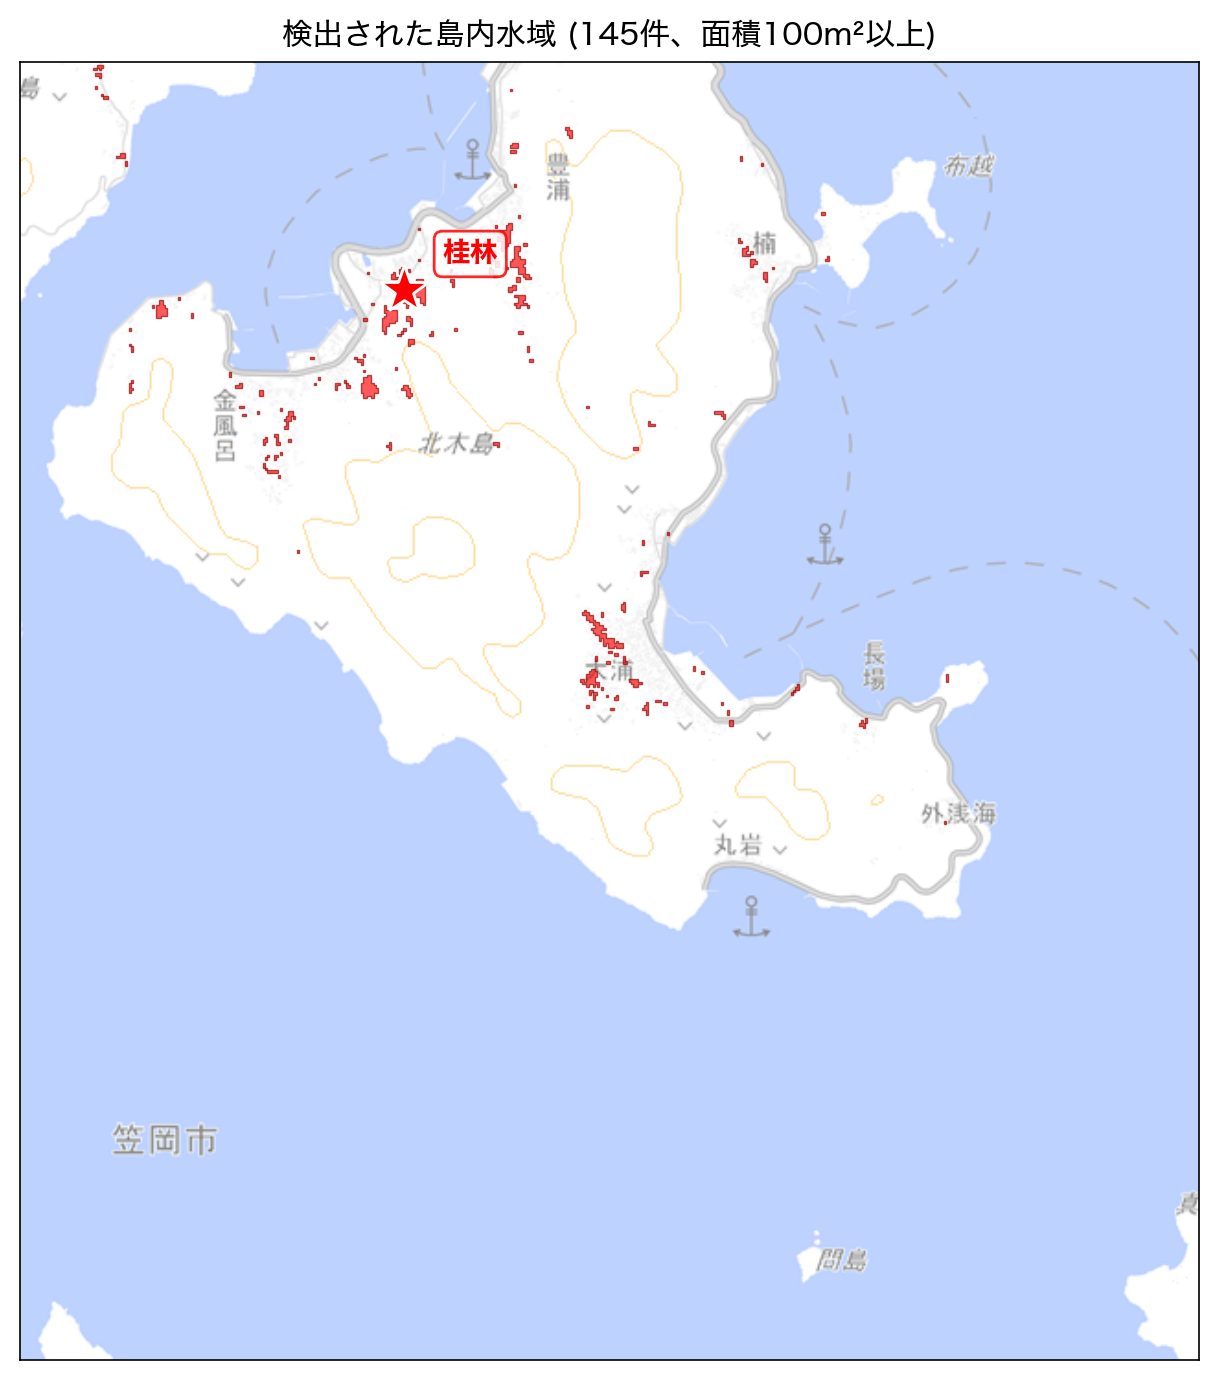
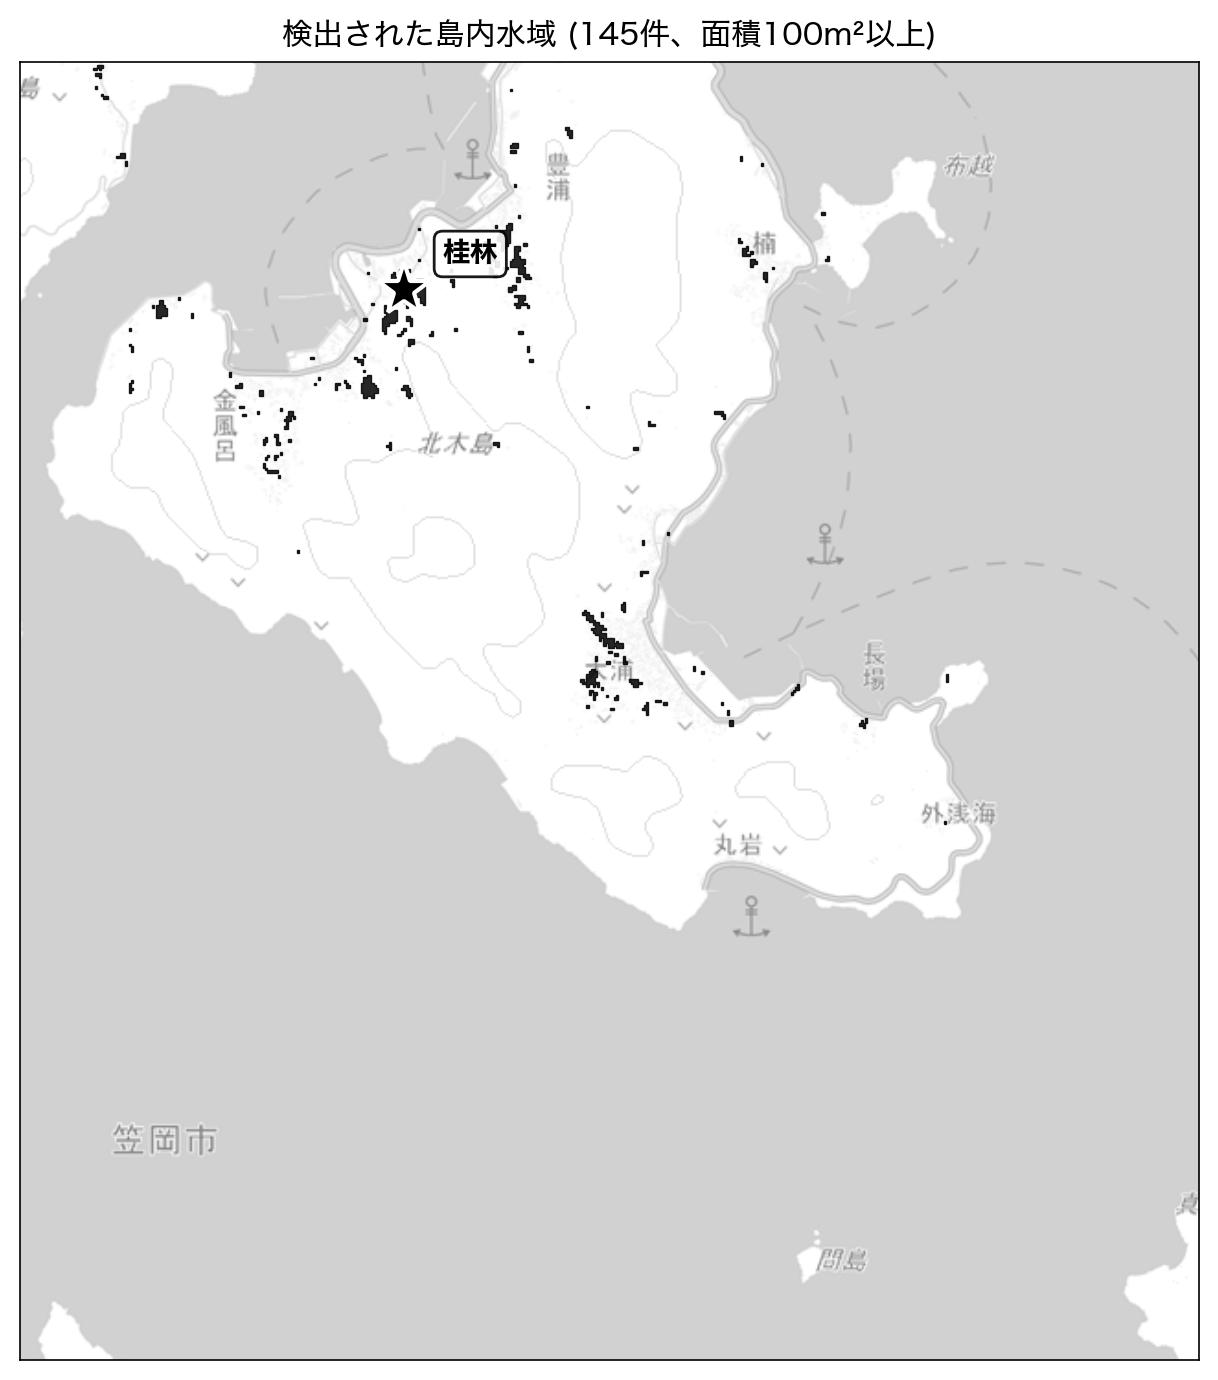
docs: 図2/4/8 をグレースケール化、章・節タイトルを回り込み対象外に
地図系3図のモノクロ最適化（テンプレート要件に対応）:
- 赤マーカー・赤ポリゴン・赤ルート線をすべて黒に置換
- 黒マーカーには白縁取り（markeredgewidth）を入れて視認性確保
- PIL.Image.convert("L") で最終的にグレースケールPNGとして保存
- 図2 位置図 / 図4 ルート / 図8 水域分布 が対象

章・節タイトルが回り込み画像と重ならないように修正:
- add_paragraph に clear_wrap オプションを追加
- h2（章 Ⅰ・Ⅱ・Ⅲ）と h3（節 １．２．３．）の段落先頭に
  <w:br w:type="textWrapping" w:clear="all"/> を挿入
- これにより、見出しが上のフロート画像の下から強制的に開始される

diff --git a/scripts/build_chiri_koryu_figures.py b/scripts/build_chiri_koryu_figures.py
@@ -80,6 +80,15 @@ def _setup_map_axes(ax, west: float, south: float, east: float, north: float) ->
         spine.set_linewidth(0.6)
 
 
+def _save_as_grayscale(out_path: Path) -> None:
+    """カラーで保存された PNG を L (グレースケール) モードに変換して上書き保存。
+
+    モノクロ印刷時の可読性を確保するため、地図系の図に適用する。
+    """
+    img = Image.open(out_path).convert("L")
+    img.save(out_path, "PNG", optimize=True)
+
+
 def make_fig02_location() -> None:
     """図2: 北木島の位置図（西日本俯瞰 + 笠岡諸島拡大の2パネル、地理院タイル背景）。"""
     fig, axes = plt.subplots(1, 2, figsize=(9, 4.2), gridspec_kw={"width_ratios": [1, 1]})
@@ -103,8 +112,9 @@ def make_fig02_location() -> None:
         ax1.text(x + 8000, y, name, fontsize=8, va="center", zorder=6)
 
     kx, ky = lonlat_to_3857(*KITAGI_CENTER)
-    ax1.plot(kx, ky, "*", color="red", markersize=16, zorder=10)
-    ax1.text(kx + 12000, ky - 8000, "北木島", fontsize=10, color="red", va="top", weight="bold", zorder=10)
+    ax1.plot(kx, ky, "*", color="black", markersize=18, markeredgecolor="white",
+             markeredgewidth=1.0, zorder=10)
+    ax1.text(kx + 12000, ky - 8000, "北木島", fontsize=10, color="black", va="top", weight="bold", zorder=10)
 
     ax1.set_title("(a) 西日本における位置", fontsize=10)
 
@@ -118,16 +128,16 @@ def make_fig02_location() -> None:
         "笠岡港 (伏越港)": (133.498, 34.500, "s", "black", 7),
         "高島": (133.513, 34.470, "o", "gray", 5),
         "白石島": (133.515, 34.430, "o", "gray", 5),
-        "北木島": (133.543, 34.374, "*", "red", 16),
+        "北木島": (133.543, 34.374, "*", "black", 18),
         "真鍋島": (133.560, 34.330, "o", "gray", 5),
     }
     for name, (lon, lat, marker, color, size) in ports_islands.items():
         x, y = lonlat_to_3857(lon, lat)
-        ax2.plot(x, y, marker, color=color, markersize=size, zorder=10)
+        edge = dict(markeredgecolor="white", markeredgewidth=1.0) if name == "北木島" else {}
+        ax2.plot(x, y, marker, color=color, markersize=size, zorder=10, **edge)
         weight = "bold" if name == "北木島" else "normal"
-        text_color = color if name == "北木島" else "black"
         ax2.text(x + 400, y, name, fontsize=9 if name == "北木島" else 8,
-                 color=text_color, va="center", weight=weight, zorder=10)
+                 color="black", va="center", weight=weight, zorder=10)
 
     ax2.set_title("(b) 笠岡諸島", fontsize=10)
 
@@ -135,7 +145,8 @@ def make_fig02_location() -> None:
     out = FIGURES / "fig02_location_map.png"
     plt.savefig(out, dpi=200, bbox_inches="tight", facecolor="white")
     plt.close()
-    print(f"saved: {out}")
+    _save_as_grayscale(out)
+    print(f"saved (grayscale): {out}")
 
 
 def make_fig04_walking_route() -> None:
@@ -158,25 +169,25 @@ def make_fig04_walking_route() -> None:
         ("千ノ浜", 133.5309, 34.3930),         # ユーザ提示 34°23'34.8"N 133°31'51.3"E
     ]
 
-    # 移動経路を線で結ぶ（Web Mercator 座標で）
+    # 移動経路を線で結ぶ（Web Mercator 座標で、モノクロ対応で黒線・破線）
     pts = [(lonlat_to_3857(lon, lat), name) for name, lon, lat in waypoints]
     xs = [p[0][0] for p in pts]
     ys = [p[0][1] for p in pts]
-    ax.plot(xs, ys, "-", color="red", linewidth=2.5, alpha=0.85, zorder=4)
+    ax.plot(xs, ys, "-", color="black", linewidth=2.5, alpha=0.95, zorder=4)
 
     for (x, y), name in pts:
         if "桂林" in name:
-            ax.plot(x, y, "*", color="red", markersize=18, markeredgecolor="white",
-                    markeredgewidth=1.0, zorder=10)
+            ax.plot(x, y, "*", color="black", markersize=20, markeredgecolor="white",
+                    markeredgewidth=1.5, zorder=10)
             ax.annotate(name, xy=(x, y), xytext=(14, 12), textcoords="offset points",
-                        fontsize=10, color="red", weight="bold", zorder=10,
-                        bbox=dict(boxstyle="round,pad=0.3", fc="white", ec="red", alpha=0.85))
+                        fontsize=10, color="black", weight="bold", zorder=10,
+                        bbox=dict(boxstyle="round,pad=0.3", fc="white", ec="black", alpha=0.9))
         else:
-            ax.plot(x, y, "o", color="black", markersize=9, markeredgecolor="white",
+            ax.plot(x, y, "o", color="black", markersize=10, markeredgecolor="white",
                     markeredgewidth=1.0, zorder=10)
             ax.annotate(name, xy=(x, y), xytext=(12, 10), textcoords="offset points",
-                        fontsize=9, zorder=10,
-                        bbox=dict(boxstyle="round,pad=0.25", fc="white", ec="gray", alpha=0.85))
+                        fontsize=9, color="black", zorder=10,
+                        bbox=dict(boxstyle="round,pad=0.25", fc="white", ec="black", alpha=0.9))
 
     ax.set_title("当日の主な訪問地と移動順序", fontsize=11)
 
@@ -184,7 +195,8 @@ def make_fig04_walking_route() -> None:
     out = FIGURES / "fig04_walking_route.png"
     plt.savefig(out, dpi=200, bbox_inches="tight", facecolor="white")
     plt.close()
-    print(f"saved: {out}")
+    _save_as_grayscale(out)
+    print(f"saved (grayscale): {out}")
 
 
 def make_fig08_water_distribution() -> None:
@@ -216,25 +228,25 @@ def make_fig08_water_distribution() -> None:
         if in_bbox and area_m2 < SEA_AREA_THRESHOLD_M2:
             polygons_island.append(geom)
 
-    # 各ポリゴンを Web Mercator に変換して描画
+    # 各ポリゴンを Web Mercator に変換して描画（モノクロ対応で黒塗り）
     project = pyproj.Transformer.from_crs("EPSG:4326", "EPSG:3857", always_xy=True).transform
     for poly in polygons_island:
         poly_3857 = shapely_transform(project, poly)
         if poly_3857.geom_type == "Polygon":
             xs, ys = poly_3857.exterior.xy
-            ax.fill(xs, ys, color="red", alpha=0.65, edgecolor="darkred", linewidth=0.5, zorder=5)
+            ax.fill(xs, ys, color="black", alpha=0.85, edgecolor="black", linewidth=0.5, zorder=5)
         elif poly_3857.geom_type == "MultiPolygon":
             for p in poly_3857.geoms:
                 xs, ys = p.exterior.xy
-                ax.fill(xs, ys, color="red", alpha=0.65, edgecolor="darkred", linewidth=0.5, zorder=5)
+                ax.fill(xs, ys, color="black", alpha=0.85, edgecolor="black", linewidth=0.5, zorder=5)
 
     # 桂林の位置（OSM「今岡石材丁場跡（北木の桂林）」 ノードに基づく、島北部）
     keirin_x, keirin_y = lonlat_to_3857(133.5329, 34.3912)
-    ax.plot(keirin_x, keirin_y, "*", color="red", markersize=18, markeredgecolor="white",
-            markeredgewidth=1.0, zorder=15)
+    ax.plot(keirin_x, keirin_y, "*", color="black", markersize=20, markeredgecolor="white",
+            markeredgewidth=1.5, zorder=15)
     ax.annotate("桂林", xy=(keirin_x, keirin_y), xytext=(14, 10),
-                textcoords="offset points", fontsize=10, color="red", weight="bold", zorder=15,
-                bbox=dict(boxstyle="round,pad=0.3", fc="white", ec="red", alpha=0.85))
+                textcoords="offset points", fontsize=10, color="black", weight="bold", zorder=15,
+                bbox=dict(boxstyle="round,pad=0.3", fc="white", ec="black", alpha=0.9))
 
     ax.set_title(
         f"検出された島内水域 ({len(polygons_island)}件、面積100m²以上)", fontsize=11
@@ -244,7 +256,8 @@ def make_fig08_water_distribution() -> None:
     out = FIGURES / "fig08_water_distribution.png"
     plt.savefig(out, dpi=200, bbox_inches="tight", facecolor="white")
     plt.close()
-    print(f"saved: {out} ({len(polygons_island)} polygons)")
+    _save_as_grayscale(out)
+    print(f"saved (grayscale): {out} ({len(polygons_island)} polygons)")
 
 
 def make_fig09_multiscale() -> None:

diff --git a/scripts/build_chiri_koryu_docx.py b/scripts/build_chiri_koryu_docx.py
@@ -67,8 +67,13 @@ def set_run_font(run, name: str, size_pt: float, bold: bool = False) -> None:
 def add_paragraph(doc, text: str, *, font: str = FONT_REGULAR, size_pt: float = 9.0,
                   bold: bool = False, align: str | None = None,
                   space_before: float = 0.0, space_after: float = 0.0,
-                  first_line_indent: bool = False) -> None:
-    """本文段落を追加する。インライン記法（**bold**, ^sup^）も簡易処理する。"""
+                  first_line_indent: bool = False,
+                  clear_wrap: bool = False):
+    """本文段落を追加する。インライン記法（**bold**, ^sup^）も簡易処理する。
+
+    clear_wrap=True にすると、段落の先頭に clear="all" のテキスト改行を入れ、
+    上にある回り込み画像の下から段落が始まるようにする（見出し等で使用）。
+    """
     p = doc.add_paragraph()
     pf = p.paragraph_format
     pf.space_before = Pt(space_before)
@@ -80,6 +85,14 @@ def add_paragraph(doc, text: str, *, font: str = FONT_REGULAR, size_pt: float = 
     elif align == "right":
         p.alignment = WD_ALIGN_PARAGRAPH.RIGHT
 
+    # 回り込み解除ブレーク（見出しなど、画像の隣に並びたくない段落用）
+    if clear_wrap:
+        clear_run = p.add_run()
+        br = OxmlElement("w:br")
+        br.set(qn("w:type"), "textWrapping")
+        br.set(qn("w:clear"), "all")
+        clear_run._element.append(br)
+
     # インライン記法を解釈してランを作る
     for piece, kind in _parse_inline(text):
         run = p.add_run(piece)
@@ -87,6 +100,7 @@ def add_paragraph(doc, text: str, *, font: str = FONT_REGULAR, size_pt: float = 
         set_run_font(run, font, size_pt, bold=is_bold)
         if kind == "sup":
             run.font.superscript = True
+    return p
 
 
 def _parse_inline(text: str) -> Iterator[tuple[str, str]]:
@@ -332,13 +346,15 @@ def render(blocks: list[dict], doc) -> None:
             # 区切り線は空段落として扱う（罫線は省略）
             continue
         elif t == "h2":
-            # 章: UD N-B 11pt 太字、章前に間
+            # 章: UD N-B 11pt 太字、章前に間。フロート画像の下から開始させる
             add_paragraph(doc, blk["text"], font=FONT_BOLD, size_pt=11.0,
-                          bold=True, space_before=10, space_after=4)
+                          bold=True, space_before=10, space_after=4,
+                          clear_wrap=True)
         elif t == "h3":
-            # 節: UD N-B 9.5pt 太字
+            # 節: UD N-B 9.5pt 太字。フロート画像の下から開始させる
             add_paragraph(doc, blk["text"], font=FONT_BOLD, size_pt=9.5,
-                          bold=True, space_before=6, space_after=2)
+                          bold=True, space_before=6, space_after=2,
+                          clear_wrap=True)
         elif t == "image":
             img_path = ARTICLE_DIR / blk["path"]
             if img_path.exists():
